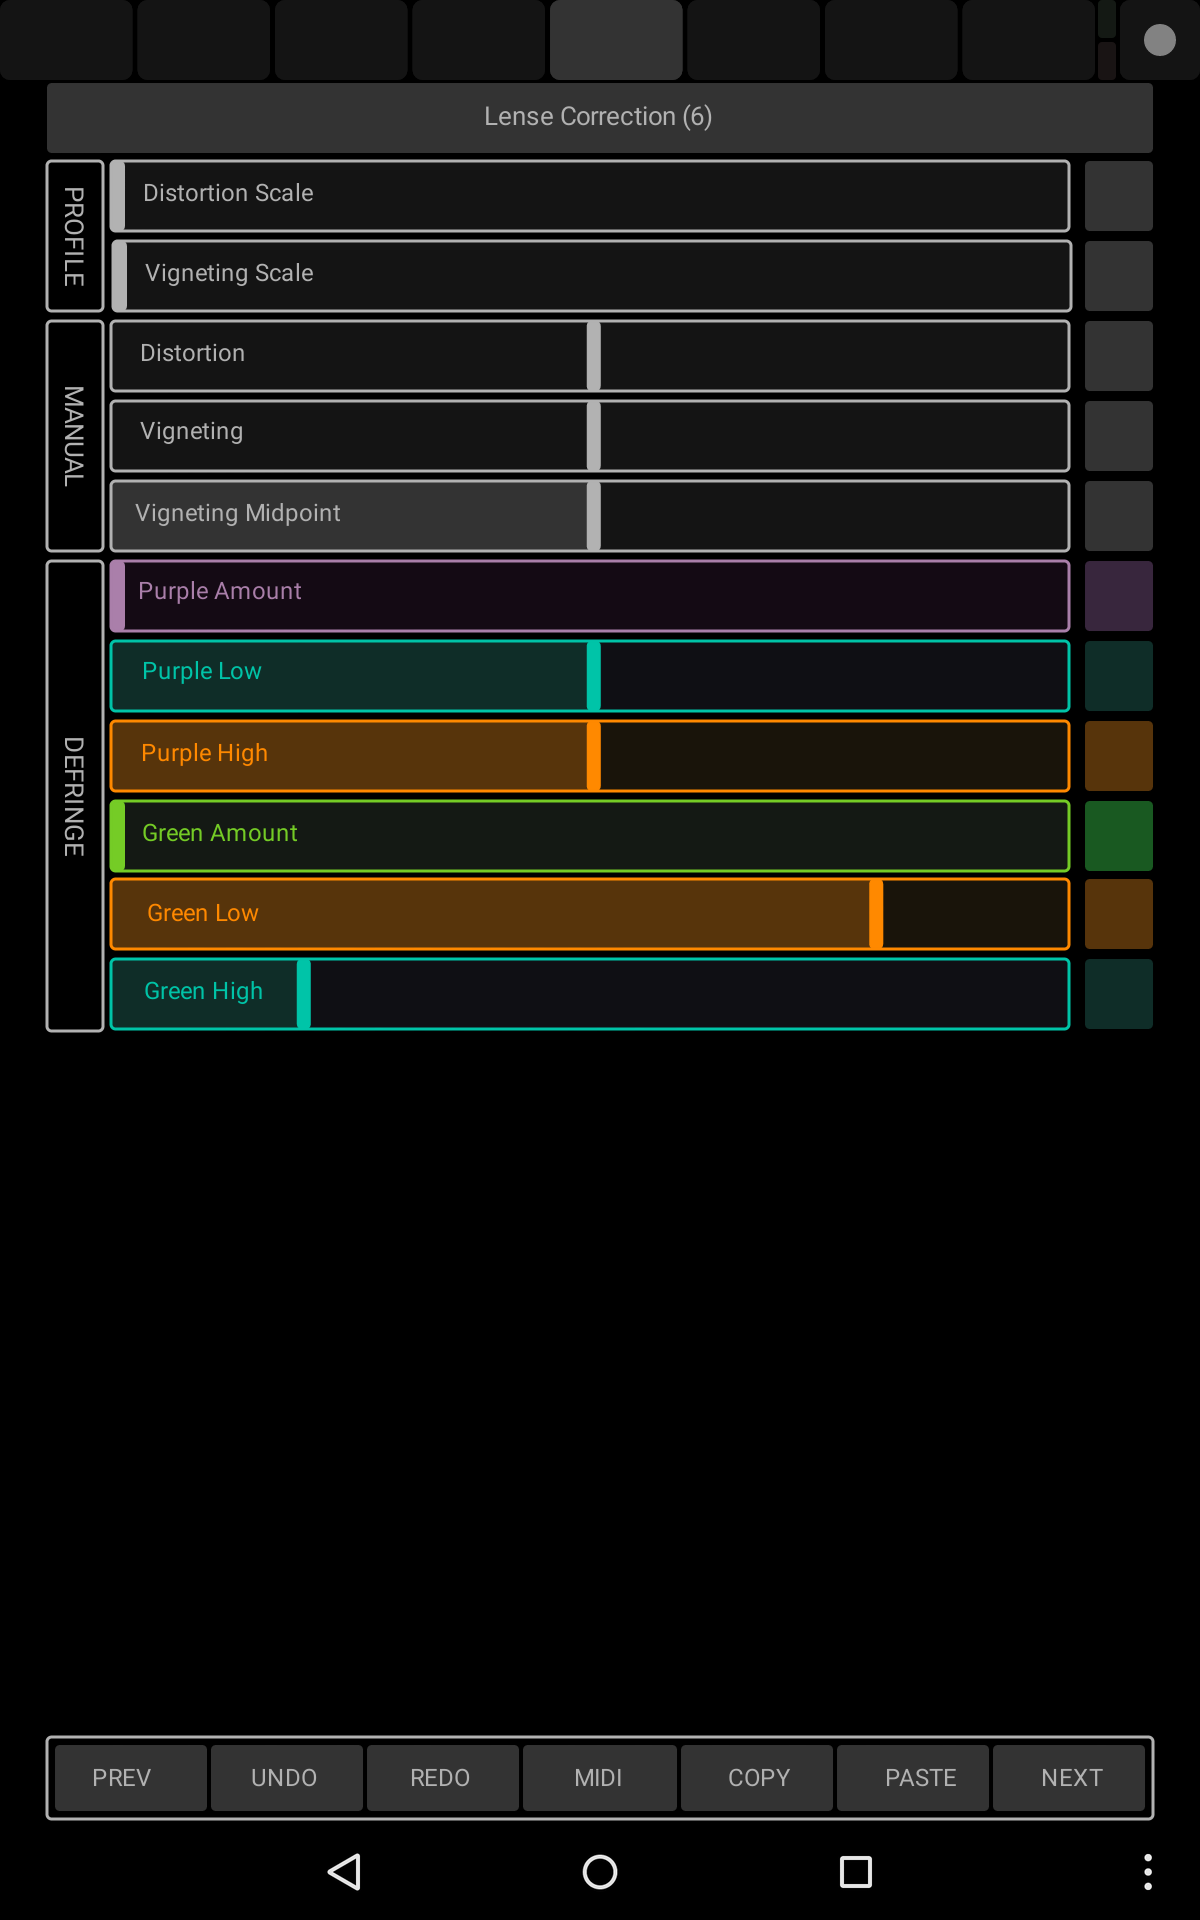
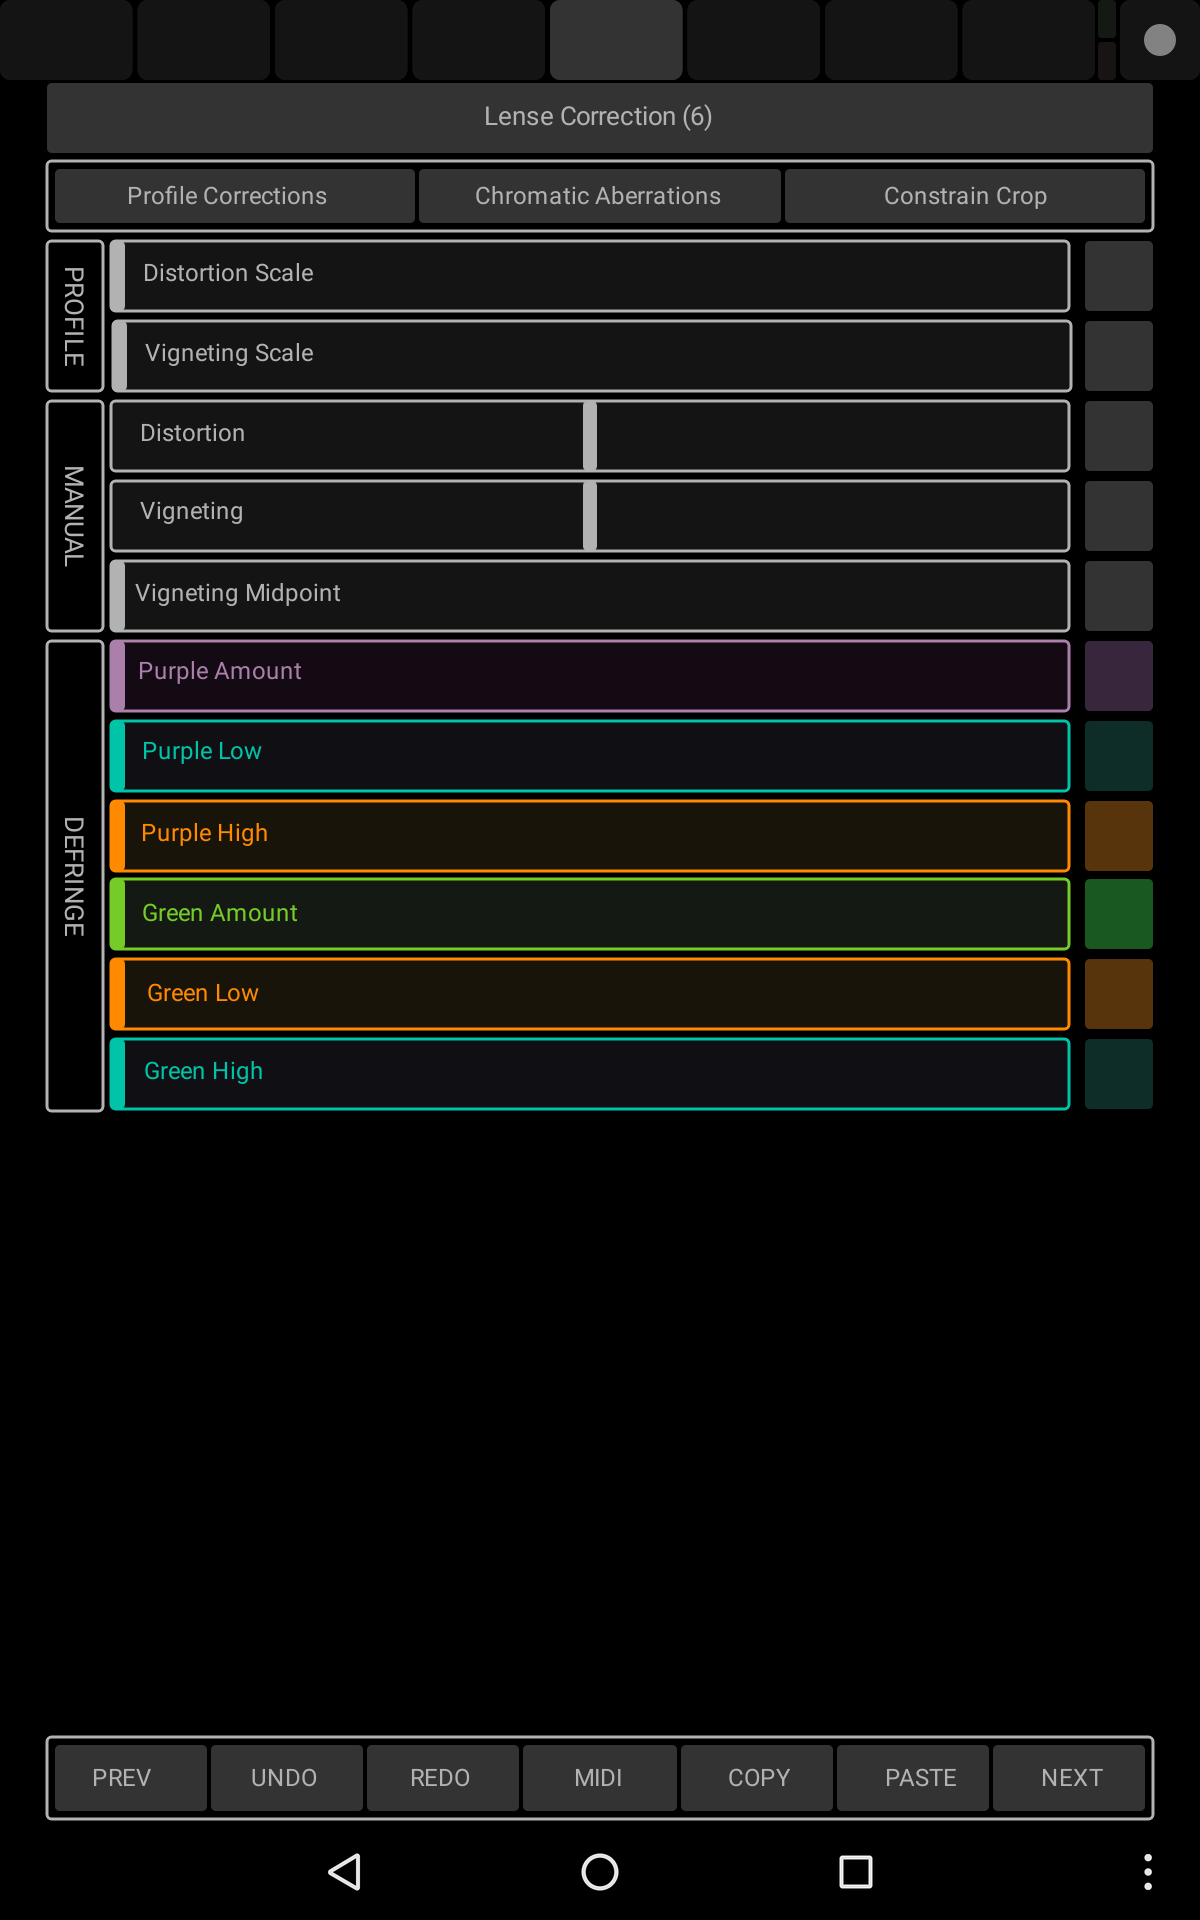
:heavy_plus_sign: Close #295: Toggle Lens Profile Corrections

Changed region(s): [[0.0308, 0.0625, 0.9867, 0.5938], [0.4625, 0.1562, 0.5242, 0.2188]]

diff --git a/Source/LRCommands.h b/Source/LRCommands.h
@@ -33,27 +33,27 @@ public:
   static const std::vector<std::string> LRStringList;
 
   // Sectioned and readable develop param strings
-  static const std::vector<std::string> KeyShortcuts;
-  static const std::vector<std::string> General;
-  static const std::vector<std::string> Library;
-  static const std::vector<std::string> Develop;
-  static const std::vector<std::string> BasicAdjustments;
-  static const std::vector<std::string> ToneCurve;
-  static const std::vector<std::string> Mixer;
-  static const std::vector<std::string> ResetMixer;
-  static const std::vector<std::string> SplitToning;
-  static const std::vector<std::string> Detail;
-  static const std::vector<std::string> LensCorrections;
-  static const std::vector<std::string> Transform;
-  static const std::vector<std::string> Effects;
-  static const std::vector<std::string> Calibration;
-  static const std::vector<std::string> DevelopPresets;
-  static const std::vector<std::string> LocalAdjustments;
-  static const std::vector<std::string> Crop;
-  static const std::vector<std::string> ToolModulePanel;
-  static const std::vector<std::string> SecondaryDisplay;
-  static const std::vector<std::string> ProgramProfiles;
-    // MIDI2LR commands
+static const std::vector<std::string> KeyShortcuts;
+static const std::vector<std::string> General;
+static const std::vector<std::string> Library;
+static const std::vector<std::string> Develop;
+static const std::vector<std::string> BasicAdjustments;
+static const std::vector<std::string> ToneCurve;
+static const std::vector<std::string> Mixer;
+static const std::vector<std::string> ResetMixer;
+static const std::vector<std::string> SplitToning;
+static const std::vector<std::string> Detail;
+static const std::vector<std::string> LensCorrections;
+static const std::vector<std::string> Transform;
+static const std::vector<std::string> Effects;
+static const std::vector<std::string> Calibration;
+static const std::vector<std::string> DevelopPresets;
+static const std::vector<std::string> LocalAdjustments;
+static const std::vector<std::string> Crop;
+static const std::vector<std::string> ToolModulePanel;
+static const std::vector<std::string> SecondaryDisplay;
+static const std::vector<std::string> ProgramProfiles;
+  // MIDI2LR commands
   static const std::vector<std::string> NextPrevProfile;
 
   // Map of command strings to indices

diff --git a/Source/LRCommands.cpp b/Source/LRCommands.cpp
@@ -22,7 +22,7 @@ MIDI2LR.  If not, see <http://www.gnu.org/licenses/>.
 #include "LRCommands.h"
 #include <unordered_map>
 #include "CommandMap.h"
-
+  
 const std::vector<std::string> LRCommandList::KeyShortcuts = {
 "Key 1",
 "Key 2",
@@ -296,6 +296,7 @@ const std::vector<std::string> LRCommandList::Detail = {
 const std::vector<std::string> LRCommandList::LensCorrections = {
 "Show Lens Corrections",
 "Enable Lens Corrections",
+"Toggle Profile Corrections",
 "Lens Profile Distortion Scale",
 "Lens Profile Chromatic Aberration Scale",
 "Lens Profile Vignetting Scale",
@@ -810,6 +811,7 @@ const std::vector<std::string> LRCommandList::LRStringList = {
 /* Lens Corrections */
 "RevealPanelLens",
 "EnableLensCorrections",
+"LensProfileEnable",
 "LensProfileDistortionScale",
 "LensProfileChromaticAberrationScale",
 "LensProfileVignettingScale",
@@ -849,8 +851,8 @@ const std::vector<std::string> LRCommandList::LRStringList = {
 "PerspectiveRotate",
 "PerspectiveScale",
 "PerspectiveAspect",
-"PerspectiveX ",
-"PerspectiveY ",
+"PerspectiveX",
+"PerspectiveY",
 "ResetPerspectiveVertical",
 "ResetPerspectiveHorizontal",
 "ResetPerspectiveRotate",
